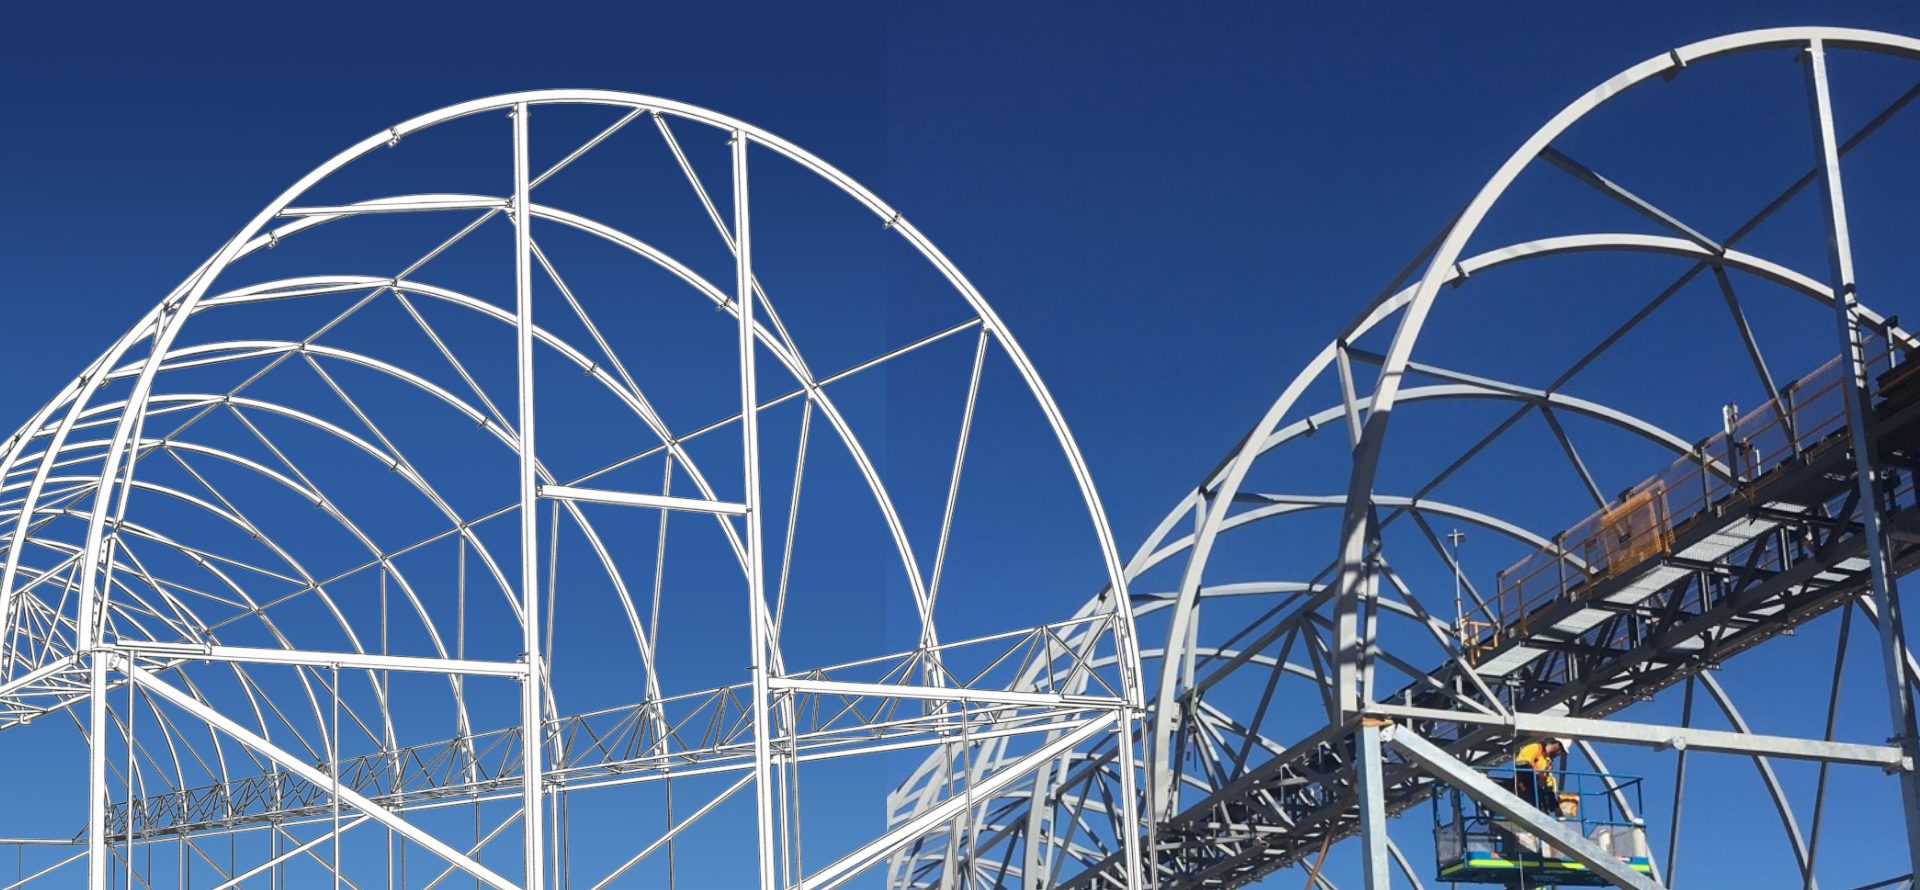
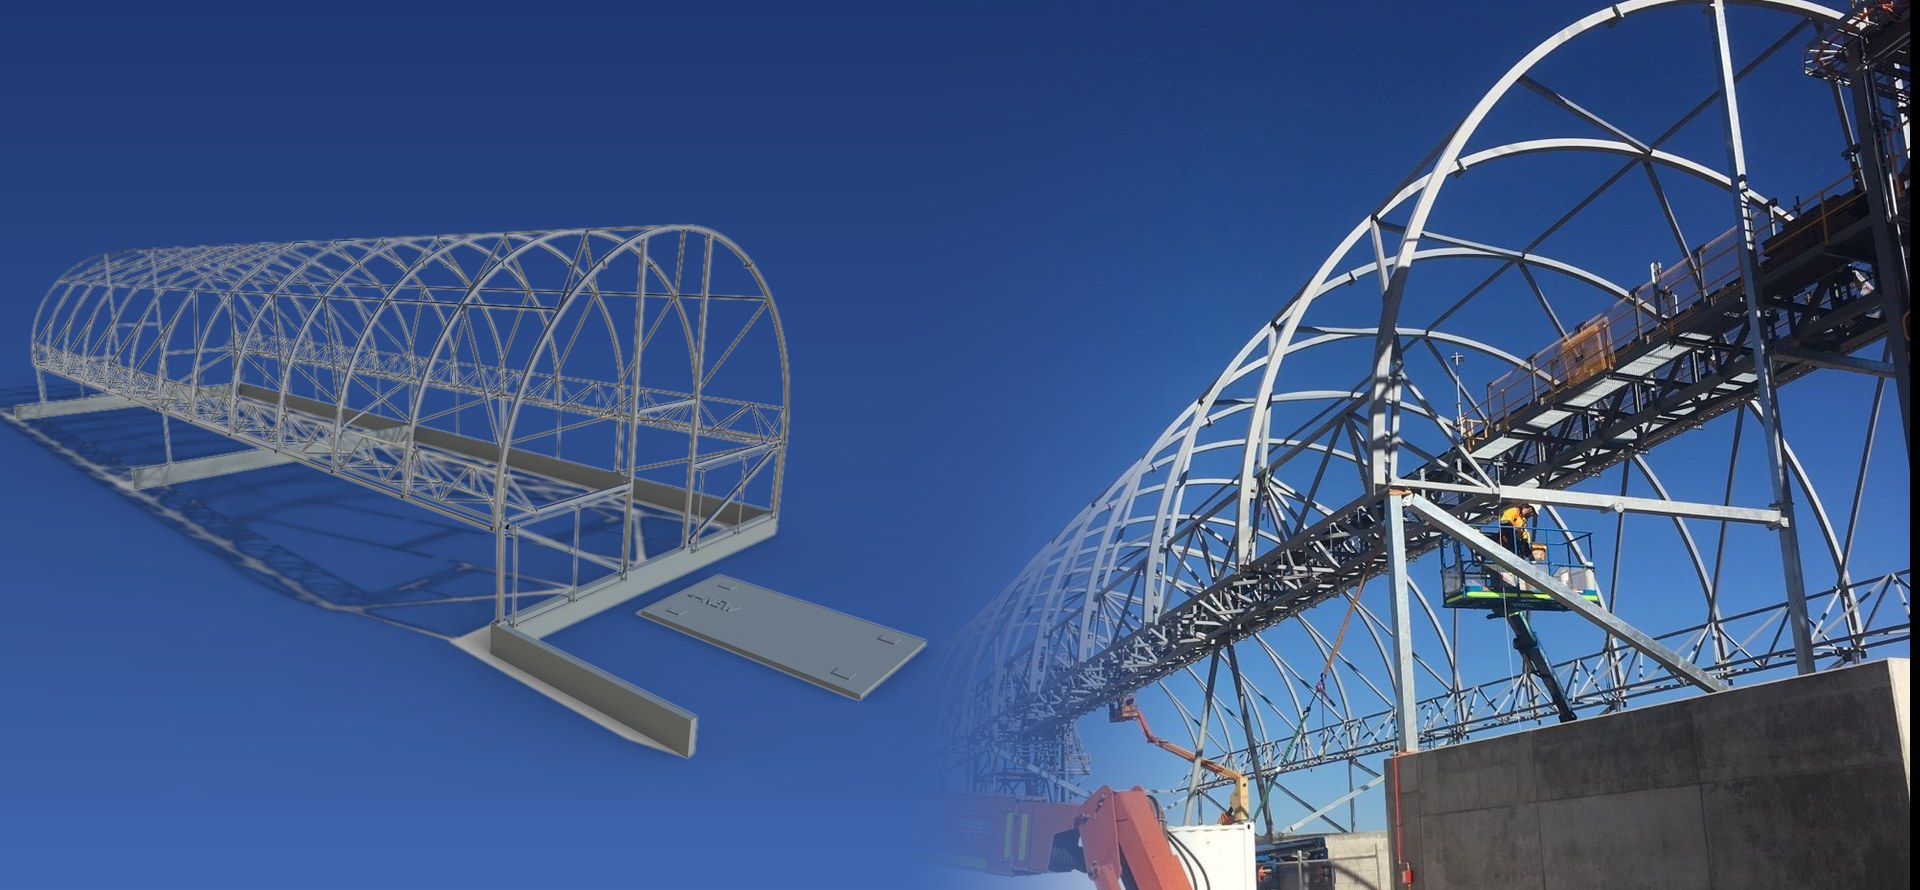
Hero: 3D model on matched blue beside erected-on-site photo
Claude-Session: https://claude.ai/code/session_0158Fftx2yiYDSvStLzRsbkD

diff --git a/site/index.html b/site/index.html
@@ -2,7 +2,7 @@
 <html lang="en">
 <head>
 <meta charset="utf-8">
-<meta name="build" content="31">
+<meta name="build" content="32">
 <meta name="viewport" content="width=device-width, initial-scale=1, viewport-fit=cover">
 <meta name="description" content="GuruCADD: production drawings, conceptual sales drawings, light gauge modular building design and CAD-to-ERP integration for fabric structures and steel fabricators. Based in Khulna, Bangladesh.">
 <meta property="og:title" content="GuruCADD | Designing Excellence">
@@ -442,7 +442,7 @@ header.lt .tfpill b{color:#0f2a5c}
 </style>
 </head>
 <body>
-<span id="build" class="bld">Ver 0.31.0</span>
+<span id="build" class="bld">Ver 0.32.0</span>
 <header>
   <div class="wrap nav">
     <a class="logo" href="#top" aria-label="GuruCADD home"><img class="dk-logo" src="images/logo-white.png" width="421" height="120" alt="GuruCADD, Designing Excellence"><img class="lt-logo" src="images/logo-color.png" width="878" height="238" alt="" aria-hidden="true"></a>

diff --git a/site/about-us.html b/site/about-us.html
@@ -2,7 +2,7 @@
 <html lang="en">
 <head>
 <meta charset="utf-8">
-<meta name="build" content="31">
+<meta name="build" content="32">
 <meta name="viewport" content="width=device-width, initial-scale=1, viewport-fit=cover">
 <meta name="description" content="A Khulna drawing office of architects, engineers and ERP specialists, with industries served and case studies.">
 <meta property="og:title" content="About us | GuruCADD">
@@ -443,7 +443,7 @@ header.lt .tfpill b{color:#0f2a5c}
 <link rel="canonical" href="https://www.gurucadd.com/about-us.html">
 </head>
 <body>
-<span id="build" class="bld">Ver 0.31.0</span>
+<span id="build" class="bld">Ver 0.32.0</span>
 <header>
   <div class="wrap nav">
     <a class="logo" href="index.html" aria-label="GuruCADD home"><img class="dk-logo" src="images/logo-white.png" width="421" height="120" alt="GuruCADD, Designing Excellence"><img class="lt-logo" src="images/logo-color.png" width="878" height="238" alt="" aria-hidden="true"></a>

diff --git a/site/services.html b/site/services.html
@@ -2,7 +2,7 @@
 <html lang="en">
 <head>
 <meta charset="utf-8">
-<meta name="build" content="31">
+<meta name="build" content="32">
 <meta name="viewport" content="width=device-width, initial-scale=1, viewport-fit=cover">
 <meta name="description" content="Production drawings, conceptual sales drawings, ERP integration and light gauge modular building design.">
 <meta property="og:title" content="Services | GuruCADD">
@@ -443,7 +443,7 @@ header.lt .tfpill b{color:#0f2a5c}
 <link rel="canonical" href="https://www.gurucadd.com/services.html">
 </head>
 <body>
-<span id="build" class="bld">Ver 0.31.0</span>
+<span id="build" class="bld">Ver 0.32.0</span>
 <header>
   <div class="wrap nav">
     <a class="logo" href="index.html" aria-label="GuruCADD home"><img class="dk-logo" src="images/logo-white.png" width="421" height="120" alt="GuruCADD, Designing Excellence"><img class="lt-logo" src="images/logo-color.png" width="878" height="238" alt="" aria-hidden="true"></a>

diff --git a/site/contact-us.html b/site/contact-us.html
@@ -2,7 +2,7 @@
 <html lang="en">
 <head>
 <meta charset="utf-8">
-<meta name="build" content="31">
+<meta name="build" content="32">
 <meta name="viewport" content="width=device-width, initial-scale=1, viewport-fit=cover">
 <meta name="description" content="Send a sketch or project details and get a free quote from GuruCADD, Khulna, Bangladesh.">
 <meta property="og:title" content="Contact | GuruCADD">
@@ -443,7 +443,7 @@ header.lt .tfpill b{color:#0f2a5c}
 <link rel="canonical" href="https://www.gurucadd.com/contact-us.html">
 </head>
 <body>
-<span id="build" class="bld">Ver 0.31.0</span>
+<span id="build" class="bld">Ver 0.32.0</span>
 <header>
   <div class="wrap nav">
     <a class="logo" href="index.html" aria-label="GuruCADD home"><img class="dk-logo" src="images/logo-white.png" width="421" height="120" alt="GuruCADD, Designing Excellence"><img class="lt-logo" src="images/logo-color.png" width="878" height="238" alt="" aria-hidden="true"></a>

diff --git a/site/gallery.html b/site/gallery.html
@@ -2,7 +2,7 @@
 <html lang="en">
 <head>
 <meta charset="utf-8">
-<meta name="build" content="31">
+<meta name="build" content="32">
 <meta name="viewport" content="width=device-width, initial-scale=1, viewport-fit=cover">
 <meta name="description" content="Real production, conceptual and modular drawing sheets from GuruCADD projects.">
 <meta property="og:title" content="Drawing samples | GuruCADD">
@@ -443,7 +443,7 @@ header.lt .tfpill b{color:#0f2a5c}
 <link rel="canonical" href="https://www.gurucadd.com/gallery.html">
 </head>
 <body>
-<span id="build" class="bld">Ver 0.31.0</span>
+<span id="build" class="bld">Ver 0.32.0</span>
 <header>
   <div class="wrap nav">
     <a class="logo" href="index.html" aria-label="GuruCADD home"><img class="dk-logo" src="images/logo-white.png" width="421" height="120" alt="GuruCADD, Designing Excellence"><img class="lt-logo" src="images/logo-color.png" width="878" height="238" alt="" aria-hidden="true"></a>
